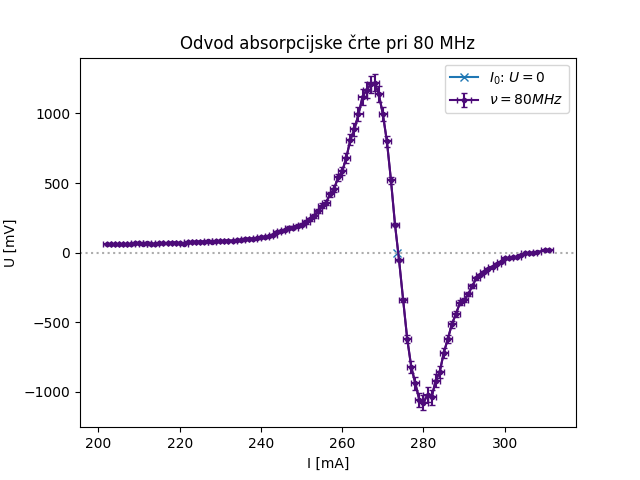
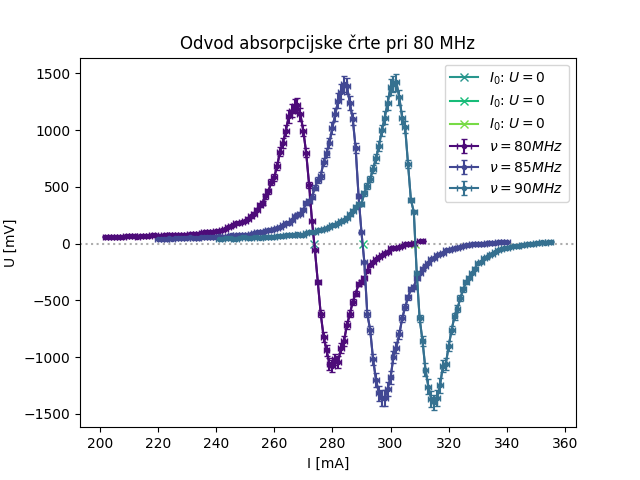
ESR: just last fit left

diff --git a/10esr/source/obdelovanje_10esr.py b/10esr/source/obdelovanje_10esr.py
@@ -8,8 +8,9 @@ from uncertainties import unumpy as unp
 
 # colors
 
-c1, c2, c3 = cmr.take_cmap_colors('cmr.lavender', 3, cmap_range=(0.3, 1.0),
-                                  return_fmt='hex')
+c1, c2, c3, d1, d2, d3 = cmr.take_cmap_colors('cmr.lavender', 6,
+                                              cmap_range=(0.3, 1.0),
+                                              return_fmt='hex')
 
 # diagonala tuljave
 # krajsi polmer
@@ -63,44 +64,35 @@ def abs_crte(nu, I0, color):
     # podano kot argument funkciji
     B0 = magnetno_polje(I0)
     print(f'Vrednost B0 pri {nu} v m', B0)
+
+    nuOverB0 = nu/(B0 * 1e-3)
+    print(f'Vrednost nu/B0 v GHz / T pri {nu}: ', nuOverB0 * 1e-3)
     # se plot za to vrednost
 
     plt.plot(unp.nominal_values(tok), unp.nominal_values(volt),
              color=color[0])
     plt.errorbar(unp.nominal_values(tok), unp.nominal_values(volt),
                  xerr=unp.std_devs(tok), yerr=unp.std_devs(volt),
-                 color=color[0], label=fr'$\nu = {nu} MHz$', marker='.', capsize=2, ls=None)
-    plt.plot(I0, 0, marker='x', label=r'$I_0$: $U = 0$', color=color[1])
+                 color=color[0], label=fr'$\nu =$ {nu}' + r'$\mathrm{MHz}$',
+                 marker='.', capsize=2, ls=None)
+    # putting it on top
+    plt.plot(I0, 0, marker='x', label=r'$I_0$: $U = 0$', color=color[1], zorder=1)
 
-# 80MHz
+    return B0
 
-nu = 80 #MHz
-data_80MHz = np.array(pd.read_csv('../meritve/80MHz.csv', delimiter=','))
-# dolzina seznama
-len80 = len(data_80MHz[:, 0])
-tok_80MHz = unp.uarray(data_80MHz[:, 0], len80 * [1])
-volt_80MHz = unp.uarray(data_80MHz[:, 1], 0.05 * np.abs(data_80MHz[:, 1]))
+frekv = [80, 85, 90]
+# I went and guesstimated from measurements, where it crossed the x axis
+# for example in 90MHz.csv in line 69 is I = 290 mA and U = 280, and in line
+# 70 is I = 291 mA and U =-260
+# Also funny number ^-^
+tokI0 = [273.75, 290.5, 308.5]
 
-# extracting maximum and minimum for \Delta B
+barve = [(c1, d1), (c2, d2), (c3, d3)]
 
-max80 = np.argmax(unp.nominal_values(volt_80MHz))
-min80 = np.argmin(unp.nominal_values(volt_80MHz))
+vrednostB0 = []
 
-# calculating \Delta B
-
-deltaI = tok_80MHz[min80] - tok_80MHz[max80]
-
-deltaB = magnetno_polje(deltaI)
-
-print('Vrednost Delta B for 80MHz v mT: ', deltaB)
-
-# calculating nu/ B_0
-# I_0 for nu = 80MHz je 273.75, U = 0
-I080MHz = 273.5
-
-B080MHz = magnetno_polje(I080MHz)
-
-print('Vrednost B0 pri 80 MHz v mT: ', B080MHz)
+for f, I, b in zip(frekv, tokI0, barve):
+    vrednostB0.append(abs_crte(f, I, b))
 
 # miscs
 plt.axhline(alpha=1, ls=":", c="#adadad")
